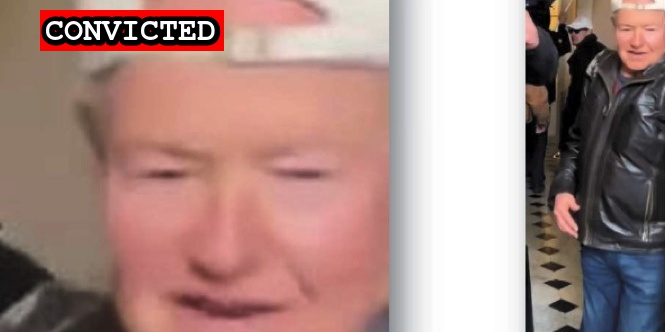
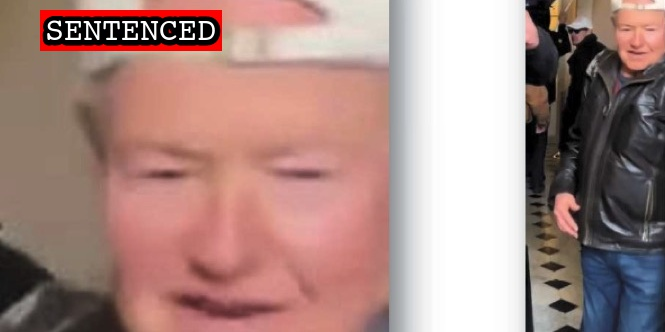
Wickersham sentence

Changed region(s): [[0.0602, 0.0301, 0.3609, 0.1506]]

diff --git a/docs/_suspects/gary-wickersham.md b/docs/_suspects/gary-wickersham.md
@@ -4,12 +4,12 @@ lastName: Wickersham
 hashtag: GaryWickersham
 aka:
 residence: Pennsylvania
-status: Convicted
+status: Sentenced
 date: 2021-05-07
 charged: 2021-05-07
 indicted:
 convicted: 2021-10-15
-sentenced:
+sentenced: 2021-12-20
 dismissed:
 deceased:
 plea_hearing: 2021-10-15
@@ -39,6 +39,10 @@ charges:
     url: https://www.law.cornell.edu/uscode/text/40/5104
     felony: false
 sentence:
+  - 90 days home confinement
+  - 36 months probation
+  - $2,000 fine
+  - $500 restitution
 ---
 
 - [News Report](https://www.thedailybeast.com/pennsylvania-man-gary-wickersham-arrested-in-capitol-riot-i-can-enter-the-capitol-because-i-pay-my-taxes)
